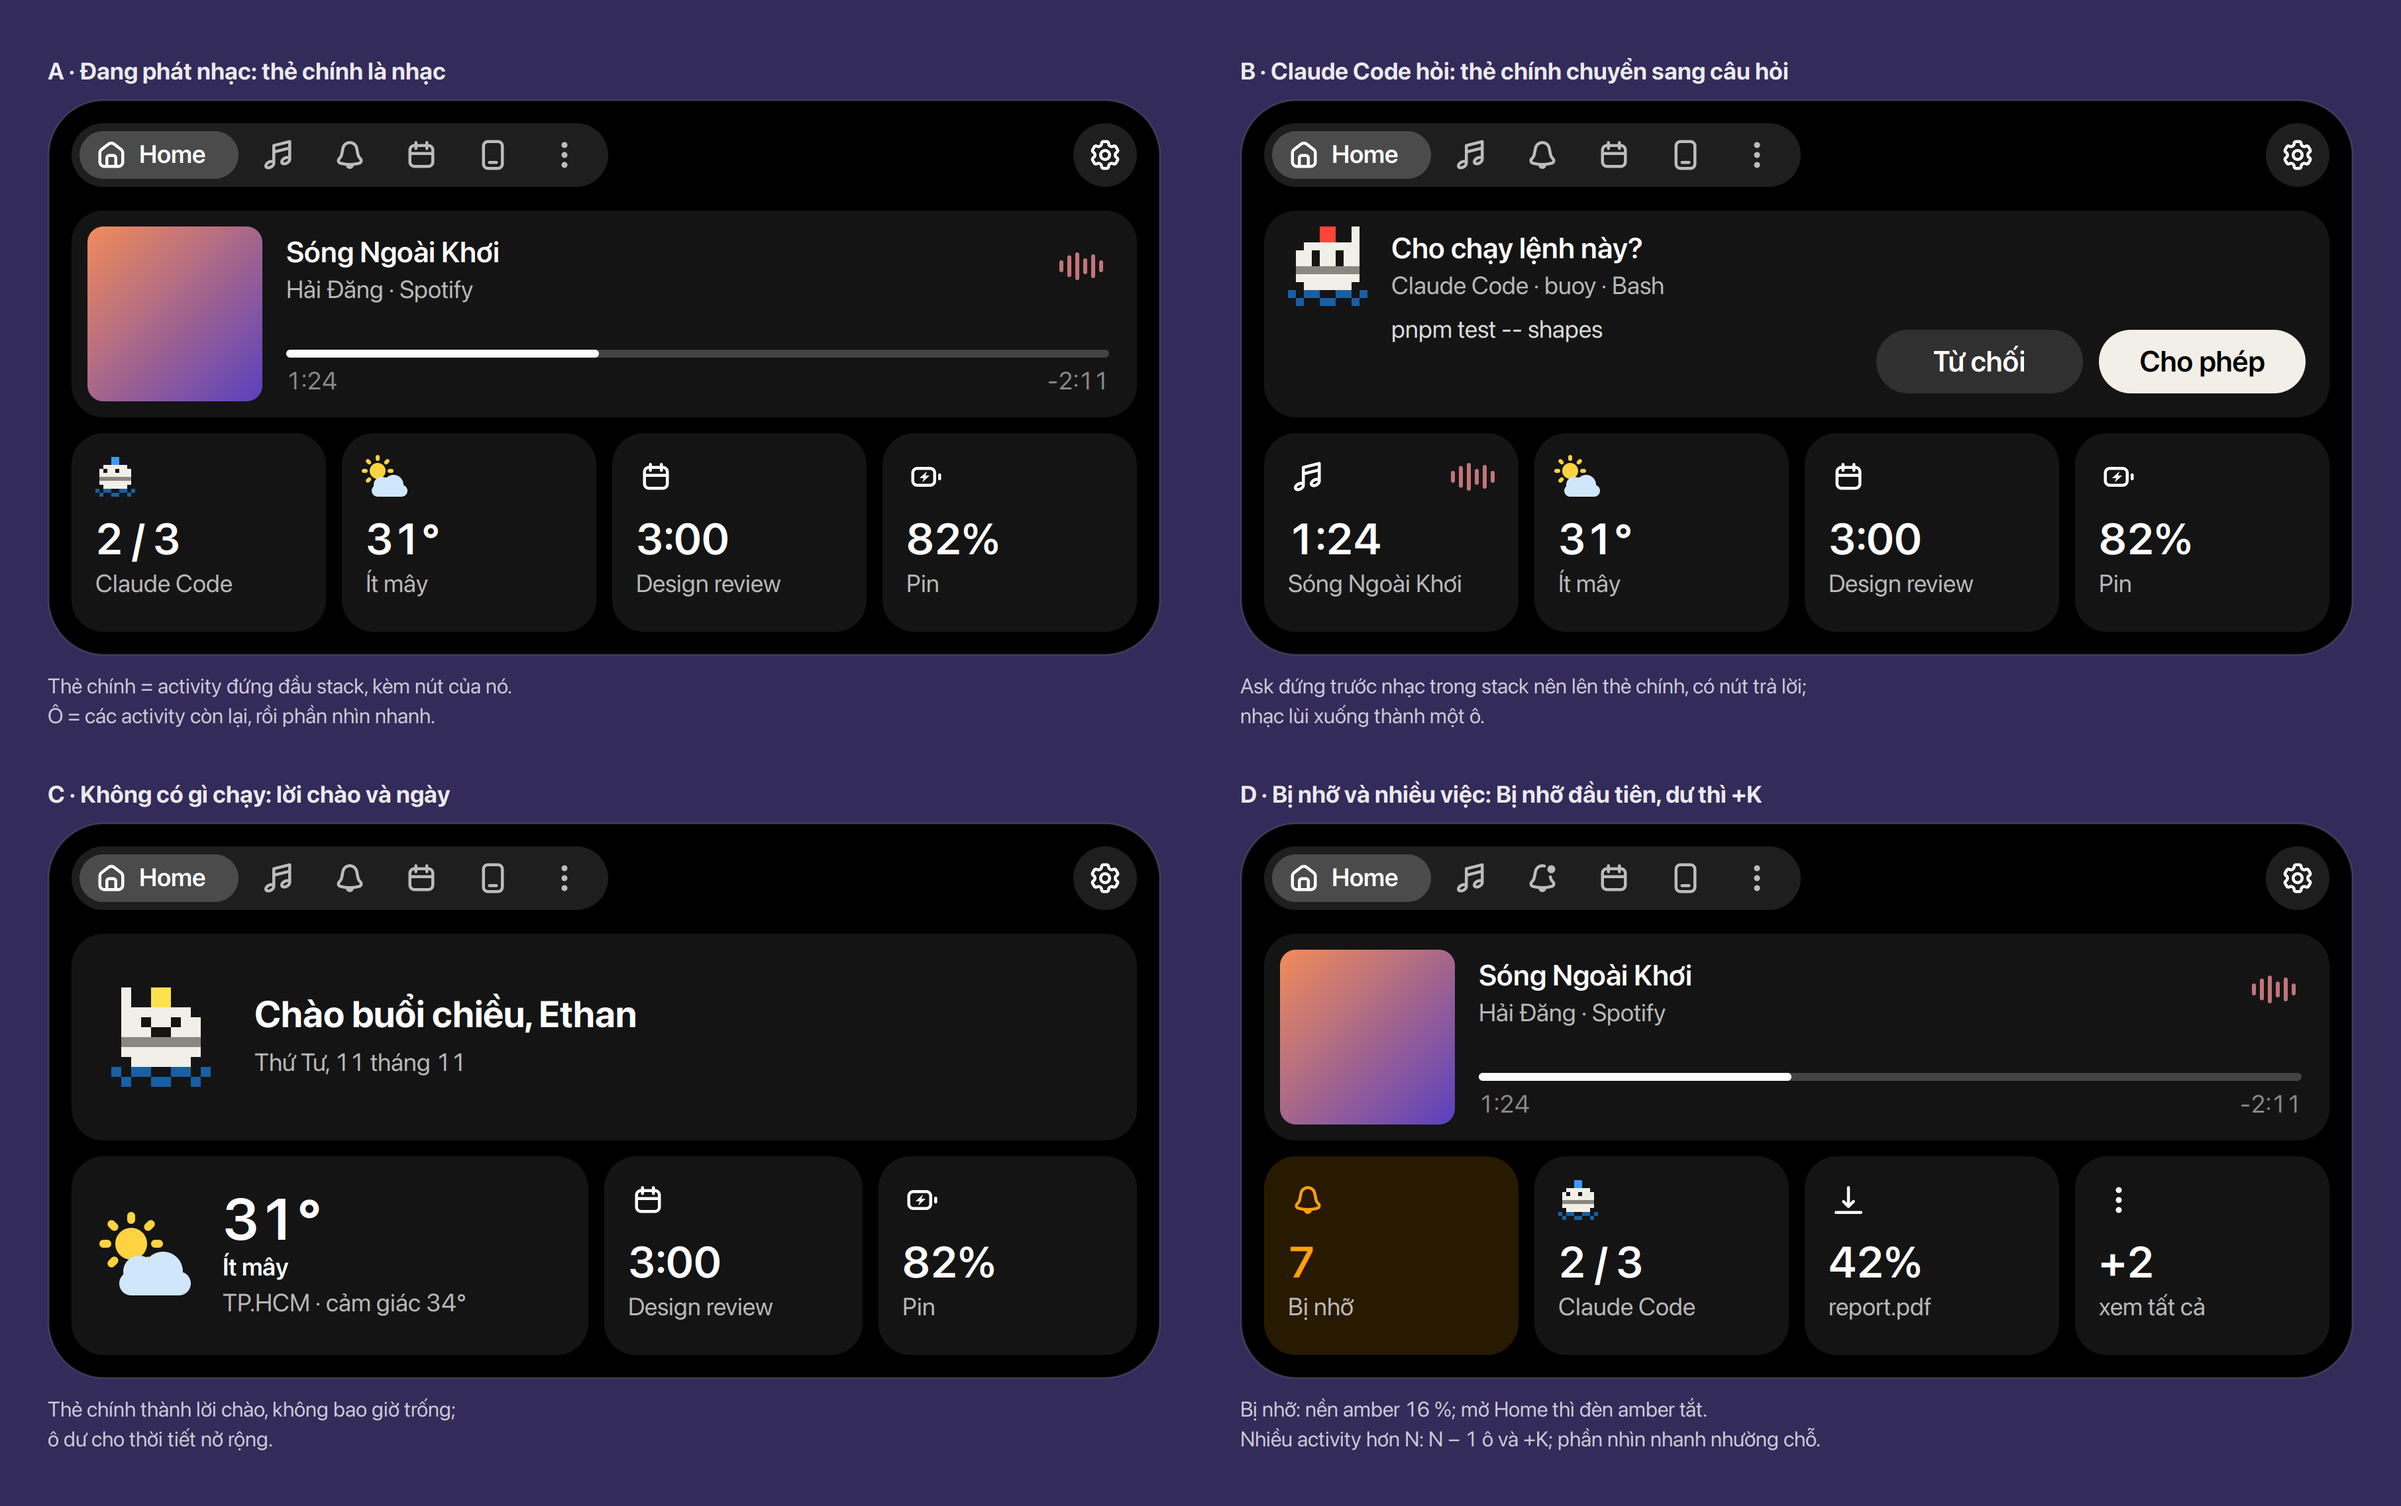
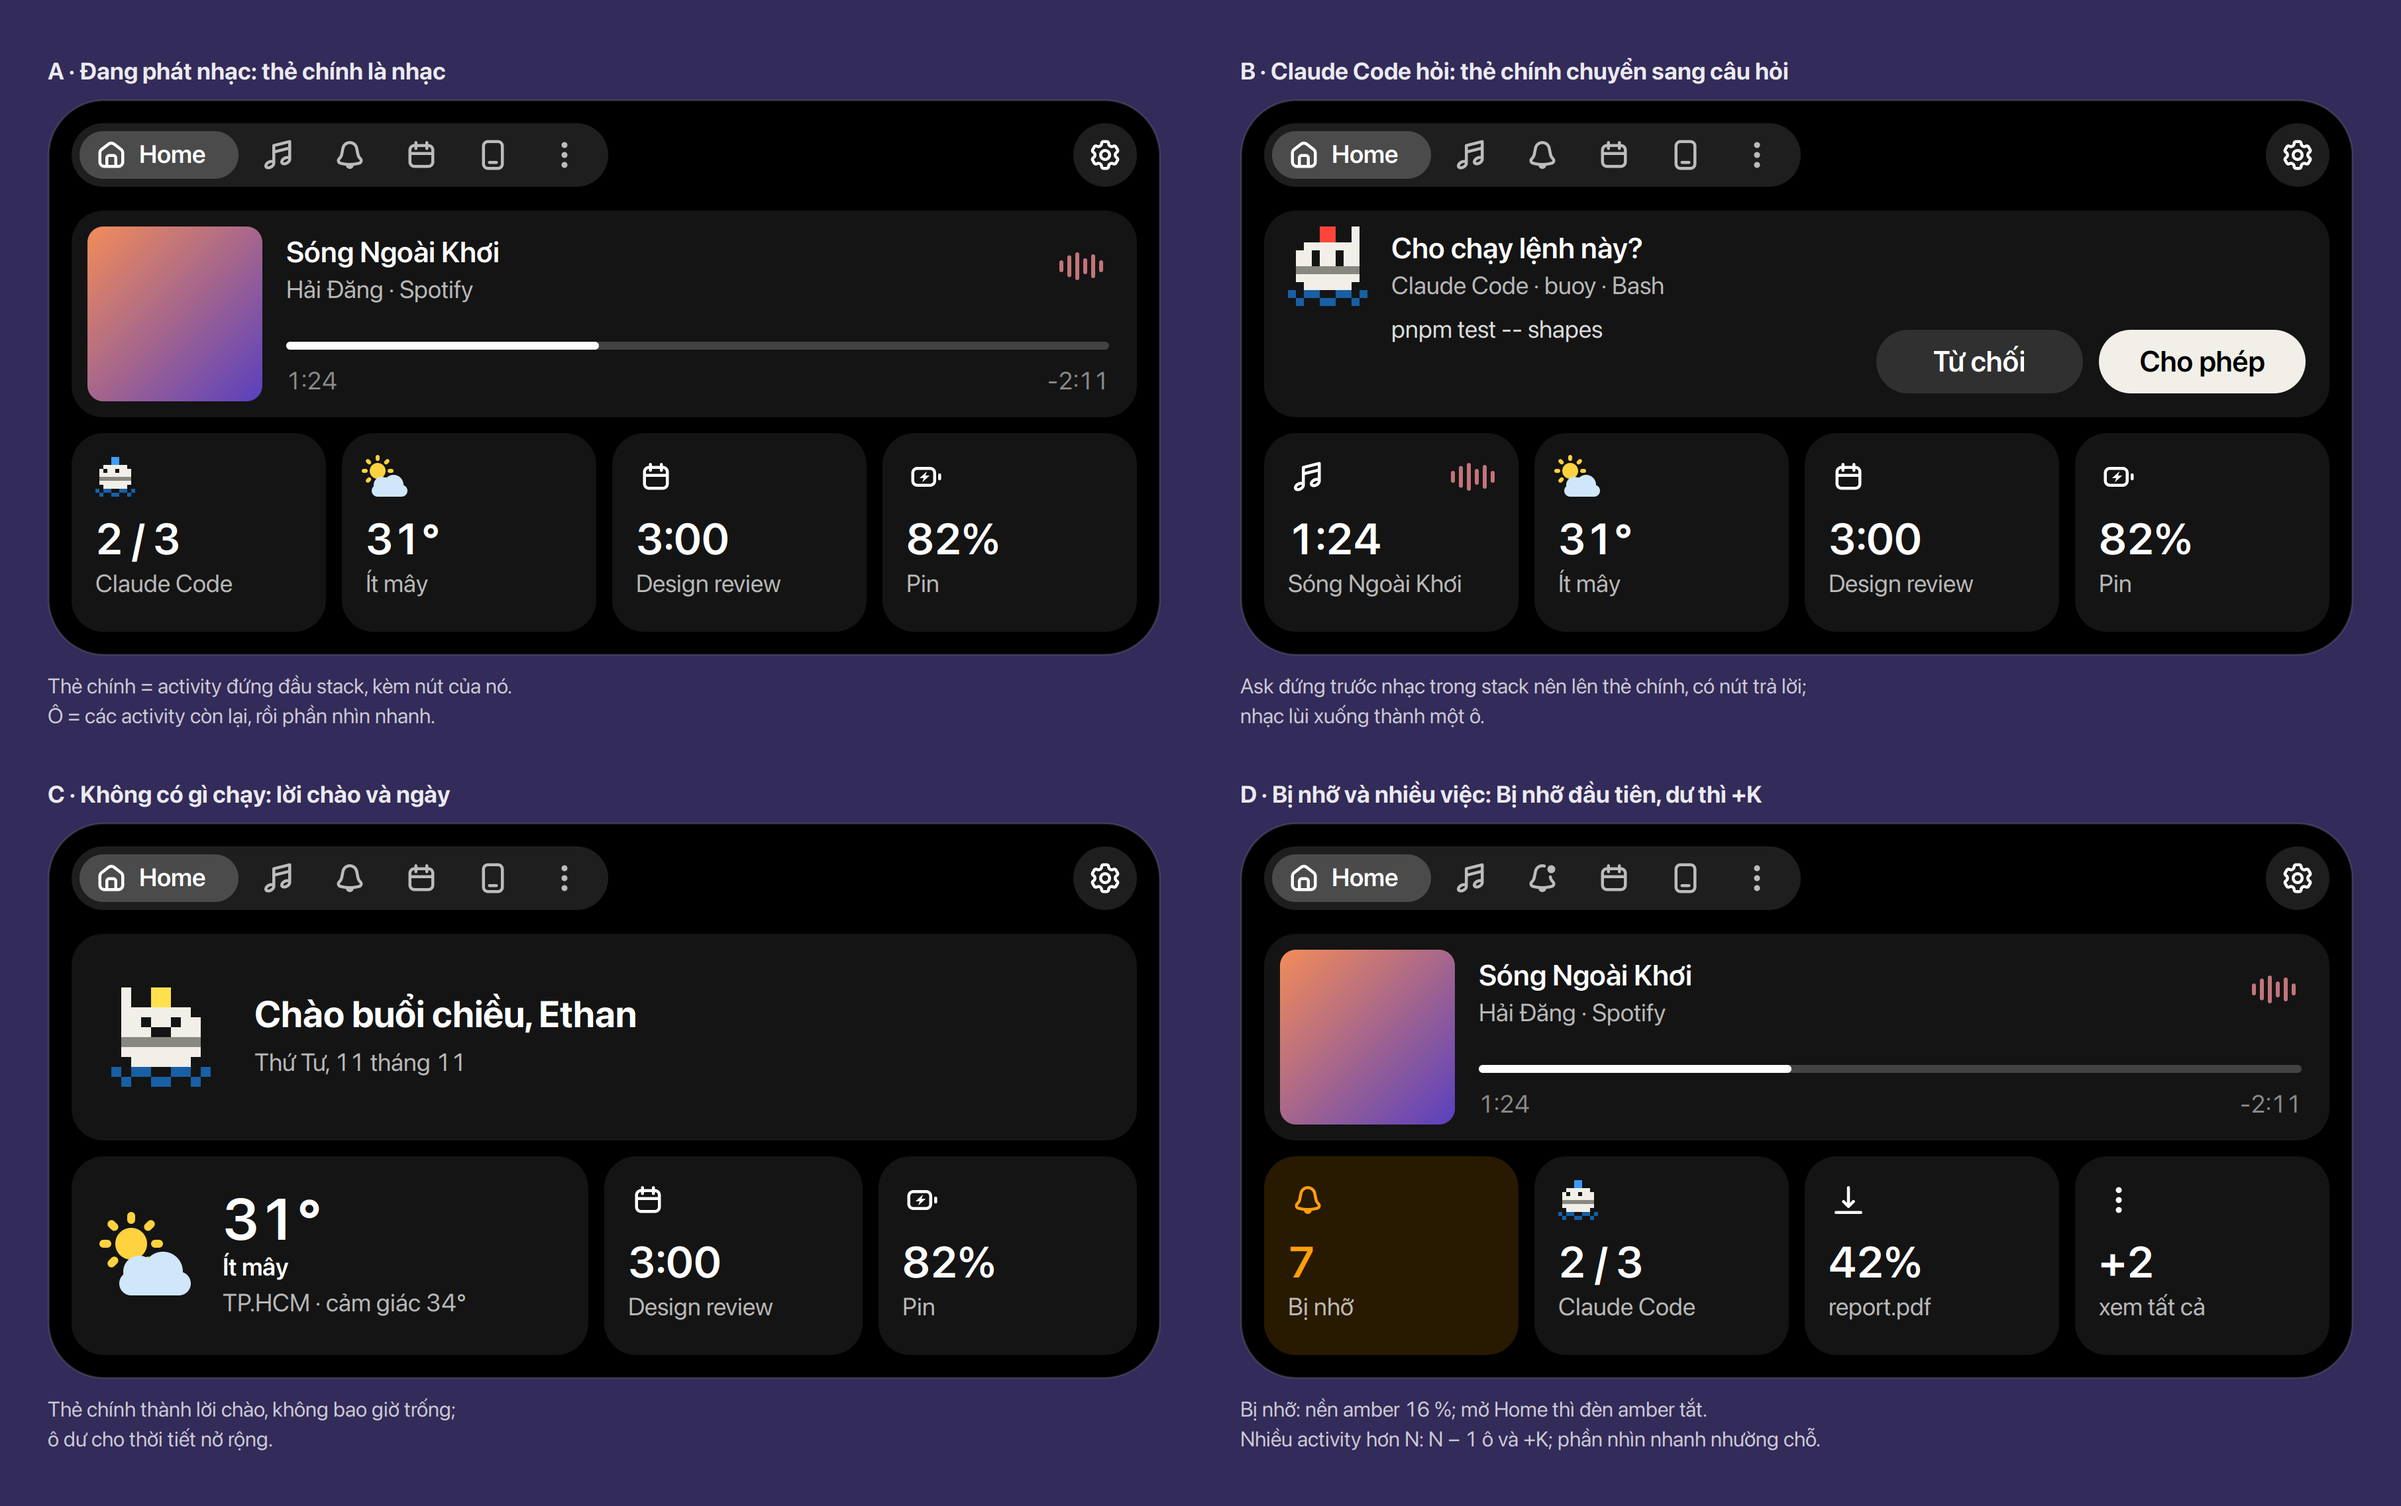
fix(kit): the times sit 4 under the progress bar
The elapsed and remaining times were right under the bar in Home's music card and the
media compact (spacing 0), tighter than the Media tab's (4 under its slider). Both now
have 4 (stylesheet .buoy-live, media .buoy-home-media-position); the design images
(home, compact, motion, colours/contrast) redrawn to match. Seen in the headless Shell
at 1920: compact, Home and the Media tab.

Refs #258

Changed region(s): [[0.6236, 0.6869, 0.9666, 0.7181], [0.1247, 0.2186, 0.4677, 0.2498]]

diff --git a/docs/design/compact/render/body.js b/docs/design/compact/render/body.js
@@ -34,7 +34,7 @@ function roundBtn(cx, cy, btn) { if (btn === 'eq') { drawEq(cr, cx - EQ.width / 
   cr.newPath(); if (main) cr.setSourceRGB(...C.CREAM); else cr.setSourceRGBA(1, 1, 1, C.FILL2); cr.arc(cx, cy, 16, 0, 2 * Math.PI); cr.fill();
   icon(cr, GLYPH[btn], cx - 8, cy - 8, 16, main ? C.BLACK : W1); }
 function bar(x, y, x0, x1) { cr.setSourceRGBA(1, 1, 1, C.FILL3); rr(x0, y, x1 - x0, 4, 2); cr.fill(); cr.setSourceRGB(1, 1, 1); rr(x0, y, (x1 - x0) * .38, 4, 2); cr.fill();
-  text('1:24', x0, y + 7, 8.5, 400, W1, .5); right('-2:11', x1, y + 7, 8.5, .5); }
+  text('1:24', x0, y + 11, 8.5, 400, W1, .5); right('-2:11', x1, y + 11, 8.5, .5); }
 const label = (t, x, y) => text(t, x, y, 9, 600, W1, .85);
 const NOTI = 'Pushed the pill shapes to the branch — can you review the compact and the card before the 3 PM sync?';
 const CARD = [[.3, .55, .95], [.3, .55, .95]];

diff --git a/docs/design/colours/render/contrast.js b/docs/design/colours/render/contrast.js
@@ -48,7 +48,7 @@ function home(X, title, {border, subtle, disabled}) {
     fill(C.FILL1, cx, cy, cw, 104, 16); fill(C.FILL2, cx + 8, cy + 8, 88, 88, 8);
     text(SAMPLE.track, cx + 108, cy + 12, {sz: 11, wt: 600}); text(SAMPLE.sub, cx + 108, cy + 32, {sz: 9.35, a: C.FG_MUTED});
     drawEq(cr, cx + cw - 28 - EQ.width / 2, cy + 28);   // play / pause at rest (design/home "Thẻ nhạc")
-    fill(C.FILL3, cx + 108, cy + 70, cw - 122, 4, 2); fill(1, cx + 108, cy + 70, (cw - 122) * .45, 4, 2);
+    fill(C.FILL3, cx + 108, cy + 66, cw - 122, 4, 2); fill(1, cx + 108, cy + 66, (cw - 122) * .45, 4, 2);
     text('1:24', cx + 108, cy + 78, {sz: 9.35, a: subtle}); text('-1:41', cx + cw - 14, cy + 78, {sz: 9.35, a: subtle, right: true});
     // the row: two tiles and a wide one with a detail column in fg-subtle
     const ty = cy + 112, u = (cw - 2 * 8) / 4;

diff --git a/docs/design/compact/render/anatomy-compact.js b/docs/design/compact/render/anatomy-compact.js
@@ -120,7 +120,7 @@ for (const it of ROWS) {
         const by = y + 60;
         cr.setSourceRGBA(1, 1, 1, C.FILL3); rr(tx, by, xr - tx, 4, 2); cr.fill();
         cr.setSourceRGB(1, 1, 1); rr(tx, by, (xr - tx) * .38, 4, 2); cr.fill();
-        text('1:24', tx, by + 7, 8.5, 400, W1, .5); right('-2:11', xr, by + 7, 8.5, .5);
+        text('1:24', tx, by + 11, 8.5, 400, W1, .5); right('-2:11', xr, by + 11, 8.5, .5);
         dim(x, ax, y - 4, '8'); dim(ax, ax + 72, y - 4, '72'); dim(ax + 72, tx, y - 4, '12'); dim(xr, x + pw, y - 4, '14');
         vdim(x + pw + 6, y, y + 8, '8'); vdim(x + pw + 6, y + 8, y + 80, '72'); vdim(x + pw + 6, y + 80, y + 88, '8');
         text('bo 20 = 28 − 8, đồng tâm với góc', ax, y + h + 3, 5.5, 600, CY);

diff --git a/docs/design/motion/render/motion.js b/docs/design/motion/render/motion.js
@@ -181,8 +181,8 @@ function compactRest(cx, y, a) { // the subtitle, the bar, the times: only the c
     text(SAMPLE.sub, tx, y + 30, {sz: 9.5, a: a * C.FG_MUTED});
     fill([1, 1, 1, C.FILL3 * a], tx, by, xr - tx, 4, 2);
     fill([1, 1, 1, a], tx, by, (xr - tx) * .38, 4, 2);
-    text('1:24', tx, by + 7, {sz: 8.5, a: .5 * a});
-    text('-2:11', xr, by + 7, {sz: 8.5, a: .5 * a, right: true});
+    text('1:24', tx, by + 11, {sz: 8.5, a: .5 * a});
+    text('-2:11', xr, by + 11, {sz: 8.5, a: .5 * a, right: true});
 }
 const REST = {pill: pillRest, compact: compactRest, expanded: (cx, y, a) => panel(cx, y, a)};
 // travel false: today's rule (SPEC §5), the shared parts leave and arrive like the rest

diff --git a/src/buoy@murilegus/stylesheet.css b/src/buoy@murilegus/stylesheet.css
@@ -266,7 +266,7 @@
 .buoy-round.buoy-round-main.buoy-round-rest.buoy-round-shown { background-color: #f1efe8; /* fill-inverse */ }
 .buoy-round.buoy-round-main.buoy-round-rest.buoy-round-shown:hover { background-color: #fff; /* fill-inverse-hover */ }
 /* A live position (media): the bar, then elapsed and remaining in even figures. */
-.buoy-live { spacing: 0; }
+.buoy-live { spacing: 4px; }   /* the times 4 under the bar, as the Media tab's (2026-11-13) */
 .buoy-live-time { color: rgba(255, 255, 255, 0.5); /* fg-subtle */ font-size: 0.85em; font-feature-settings: "tnum"; }
 /* An ask's key (kit/model/keys.js), shown only while the island holds the keyboard. */
 .buoy-action-face { spacing: 6px; }

diff --git a/docs/design/compact/render/media-slot.js b/docs/design/compact/render/media-slot.js
@@ -82,8 +82,8 @@ ITEMS.forEach((it, i) => {
     const by = y + 60;
     cr.setSourceRGBA(1, 1, 1, C.FILL3); rr(tx, by, xr - tx, 4, 2); cr.fill();
     cr.setSourceRGB(1, 1, 1); rr(tx, by, (xr - tx) * .38, 4, 2); cr.fill();
-    text('1:24', tx, by + 7, 8.5, 400, W1, .5);
-    const e = text('-2:11', 0, 0, 8.5, 400, W1, .5, true); text('-2:11', xr - e.width, by + 7, 8.5, 400, W1, .5);
+    text('1:24', tx, by + 11, 8.5, 400, W1, .5);
+    const e = text('-2:11', 0, 0, 8.5, 400, W1, .5, true); text('-2:11', xr - e.width, by + 11, 8.5, 400, W1, .5);
     const a = it.half ? .5 : 1;
     if (it.eq === 'play')
         drawEq(cr, cx - EQ.width / 2, cy, a);

diff --git a/src/buoy@murilegus/lib/modules/media/home.js b/src/buoy@murilegus/lib/modules/media/home.js
@@ -93,7 +93,7 @@ export class MediaCard {
 
     // The bar, the elapsed time under its start and the remaining under its end
     _position(live) {
-        const box = new St.BoxLayout({orientation: Clutter.Orientation.VERTICAL, x_expand: true});
+        const box = new St.BoxLayout({style_class: 'buoy-home-media-position', orientation: Clutter.Orientation.VERTICAL, x_expand: true});
         const bar = progressBar(livePosition(live, Date.now()) / live.length);
         bar.add_style_class_name('buoy-home-media-bar');
         bar.x_expand = true;

diff --git a/src/buoy@murilegus/lib/modules/media/stylesheet.css b/src/buoy@murilegus/lib/modules/media/stylesheet.css
@@ -8,6 +8,7 @@
 .buoy-home-media-time { color: rgba(255, 255, 255, 0.5); /* fg-subtle */ font-size: 0.85em; font-feature-settings: "tnum"; }
 .buoy-home-media-transport { spacing: 8px; }
 .buoy-home-media-bar { color: #fff; /* fg */ }
+.buoy-home-media-position { spacing: 4px; }   /* the times 4 under the bar, as the Media tab's */
 
 /* The Media tab (modules/media/tab.js, design/media M1, 2026-11-13): the players' chips
    above one card as Home's main card — the art 8 in, the text column, the seek bar and five

diff --git a/docs/design/home/render/home.js b/docs/design/home/render/home.js
@@ -139,7 +139,7 @@ function heroMusic(x, y, w, h) {
     text(SAMPLE.track, tx, ay + 4, tall ? {sz: 14, wt: 700} : {wt: 600});
     text(SAMPLE.sub, tx, ay + (tall ? 30 : 24), {sz: SUB, a: C.FG_MUTED});
     slot(x + w - 28, ay + 20);
-    bar(tx, by - 26, x1 - tx);
+    bar(tx, by - 30, x1 - tx);   // the times 4 under it (2026-11-13)
     text('1:24', tx, by - 18, {sz: SUB, a: C.FG_SUBTLE}); text('-2:11', x1, by - 18, {sz: SUB, a: C.FG_SUBTLE, right: true});
 }
 function heroAsk(x, y, w, h) {
